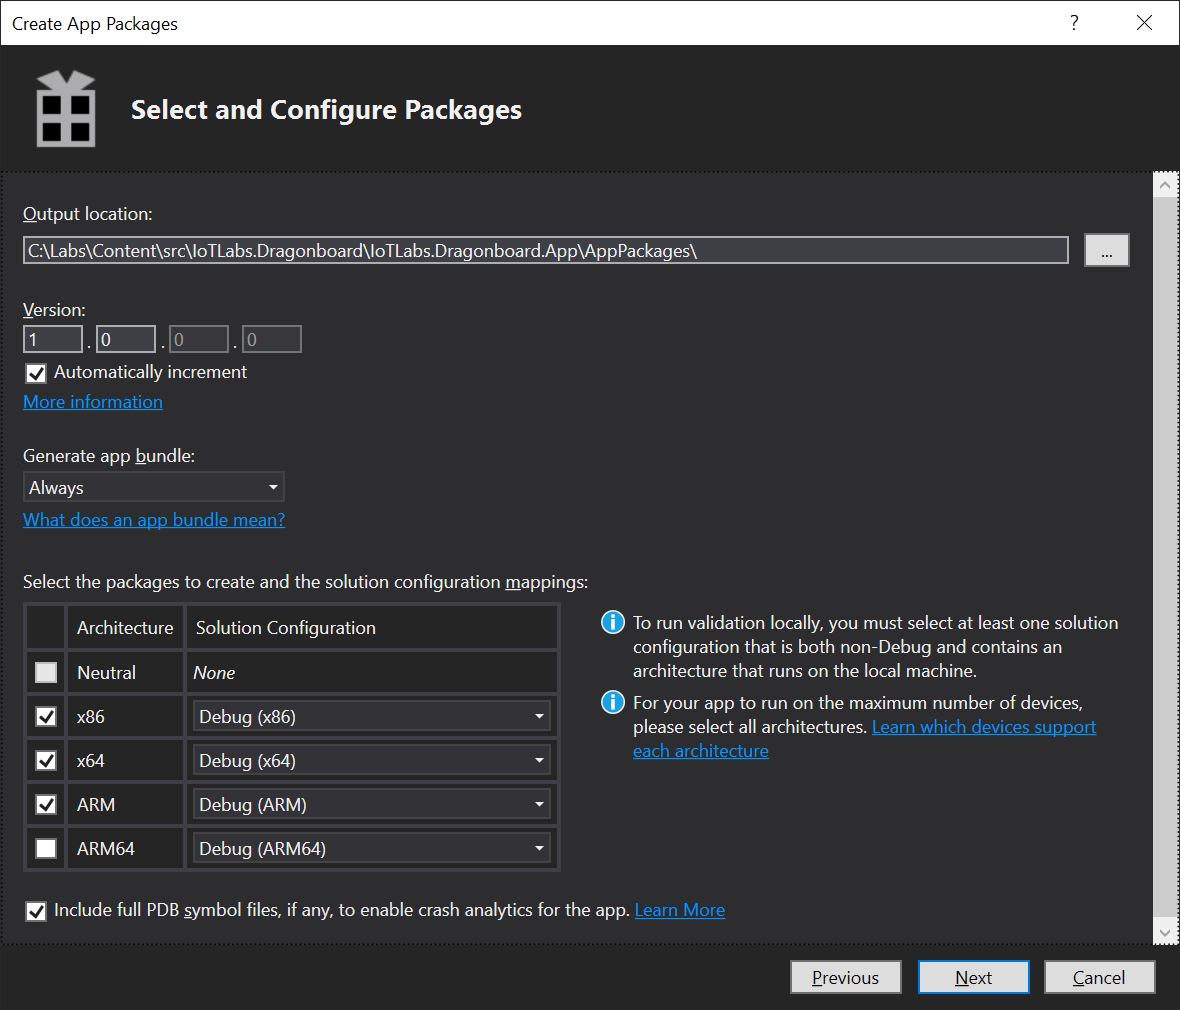
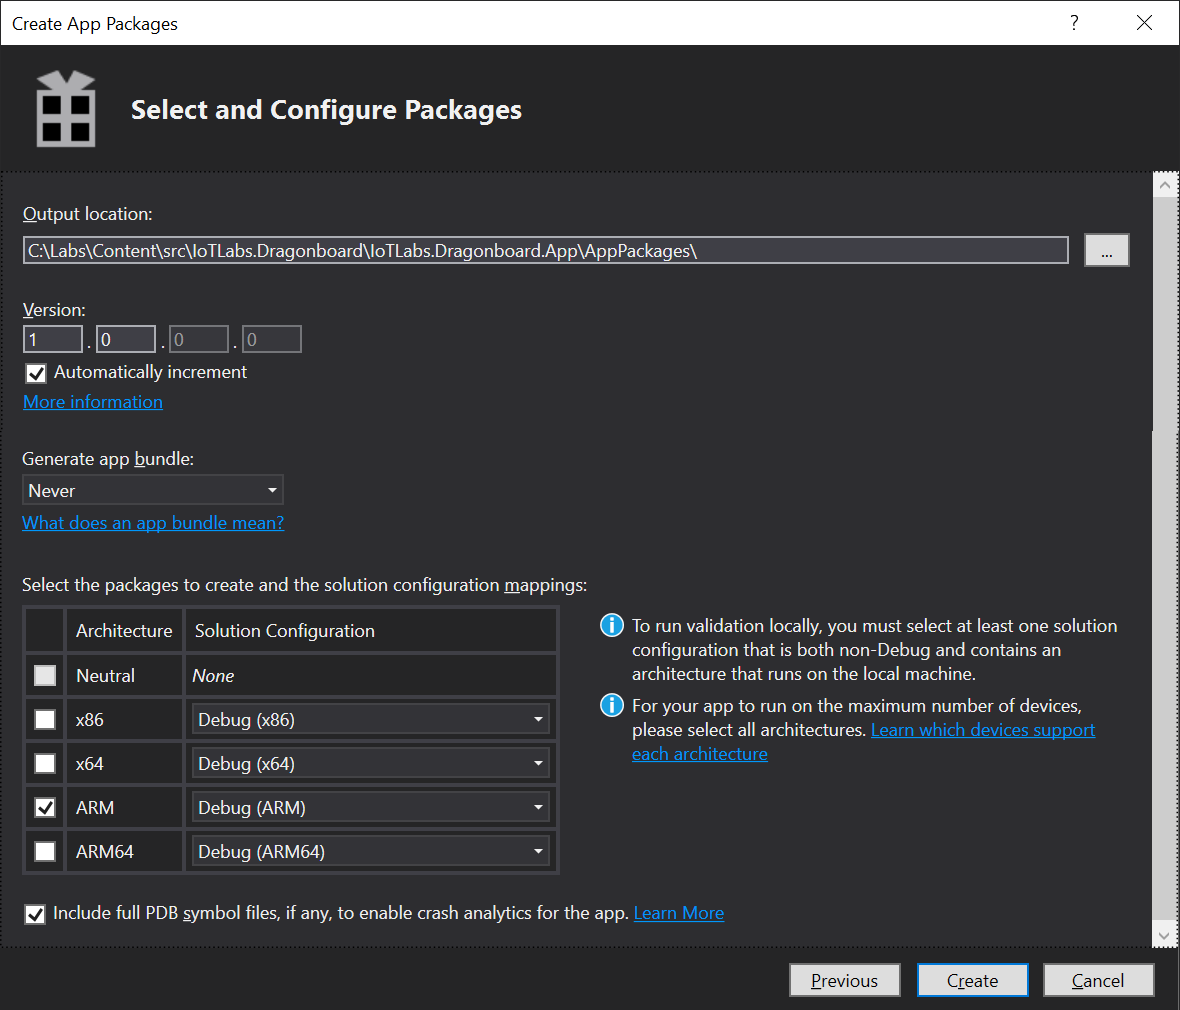
Added publishing steps to lab 1

Changed region(s): [[0.0, 0.4297, 0.9458, 0.8594], [0.6712, 0.4297, 1.0, 1.0], [0.0, 0.8901, 0.6102, 0.9208]]

diff --git a/labs/Lab01.md b/labs/Lab01.md
@@ -149,4 +149,11 @@ await MotionSensor.Initialize();
 ![](./media/1_createapppackages.png)
 2. Choose "I want to create packages for sideloading" and uncheck "Enable automatic updates"
 ![](./media/1_createapppackages4.png)
-3. 
+3. Select "Never" on "Generate app bundle" and select "ARM" as the Architecture 
+![](./media/1_createapppackages2.png)
+4. After package creation, click on the link to verify the .appx files have been created
+![](./media/1_createapppackages5.png)
+
+
+
+
